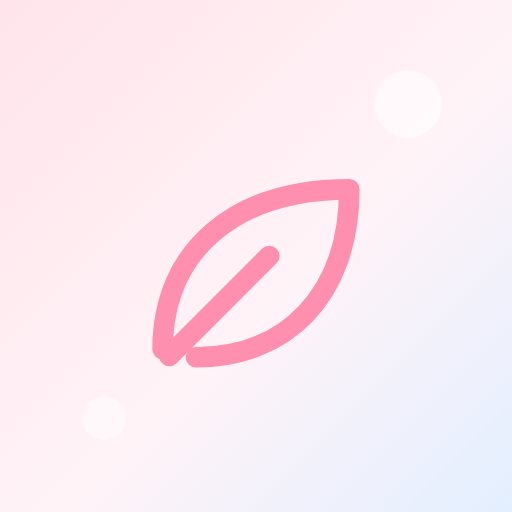
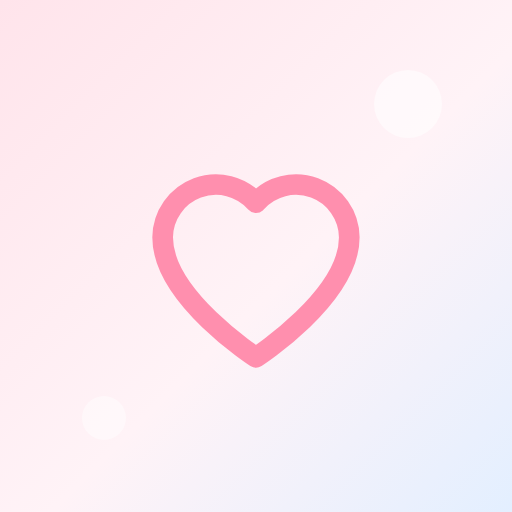
新增：菜名自动估算热量、AI 照片估算；更换图标为爱心

Changed region(s): [[0.2812, 0.3125, 0.7188, 0.7188], [0.5938, 0.625, 0.625, 0.6562], [0.5625, 0.5938, 0.5938, 0.625]]

diff --git a/index.html b/index.html
@@ -508,7 +508,236 @@ function save(){
   }
 }
 
-/* ================= 业务计算 ================= */
+/* ================= 食物热量库（按常见一份估算，可手动修改） ================= */
+const FOOD_DB = [
+  ['白米饭','1 碗（约 150g）',174,['米饭','白饭','大米饭','饭']],
+  ['糙米饭','1 碗（约 150g）',165,['糙米']],
+  ['杂粮饭','1 碗（约 150g）',170,[]],
+  ['面条','1 碗（约 200g）',280,['汤面','拉面','面']],
+  ['牛肉面','1 碗',550,['牛肉拉面','红烧牛肉面']],
+  ['炒面','1 份（约 300g）',580,['干炒牛河']],
+  ['意大利面','1 份（约 250g）',400,['意面','pasta']],
+  ['米线','1 碗',350,['过桥米线']],
+  ['米粉','1 碗',330,['河粉','汤粉']],
+  ['馒头','1 个（约 100g）',223,['白馒头']],
+  ['花卷','1 个（约 80g）',190,[]],
+  ['包子','1 个（约 100g）',250,['肉包','肉包子']],
+  ['素包子','1 个',180,['菜包','素包']],
+  ['小笼包','6 个',400,['一笼小笼包']],
+  ['生煎','4 个',450,['生煎包']],
+  ['饺子','10 个',400,['水饺','猪肉饺子','蒸饺']],
+  ['馄饨','10 个',300,['云吞','抄手']],
+  ['白粥','1 碗（约 250g）',90,['大米粥','稀饭']],
+  ['小米粥','1 碗（约 250g）',110,[]],
+  ['燕麦粥','1 碗（约 250g）',150,['燕麦']],
+  ['皮蛋瘦肉粥','1 碗',180,['瘦肉粥']],
+  ['炒饭','1 份（约 300g）',550,['蛋炒饭','扬州炒饭']],
+  ['手抓饼','1 个',350,[]],
+  ['煎饼果子','1 个',450,['煎饼']],
+  ['全麦面包','1 片（约 35g）',90,['全麦吐司']],
+  ['吐司','1 片（约 35g）',95,['白吐司','切片面包']],
+  ['面包','1 个（约 80g）',200,['小面包','牛角包']],
+  ['油条','1 根（约 60g）',230,[]],
+  ['红薯','1 个（约 150g）',130,['地瓜','烤红薯']],
+  ['紫薯','1 个（约 150g）',125,[]],
+  ['玉米','1 根（约 200g）',170,['玉米棒','甜玉米']],
+  ['土豆','1 个（约 150g）',115,['马铃薯']],
+  ['山药','1 份（约 150g）',90,[]],
+
+  ['鸡蛋','1 个（约 50g）',78,['水煮蛋','白煮蛋','煮鸡蛋','炒鸡蛋','煎鸡蛋']],
+  ['煎蛋','1 个',120,['荷包蛋','太阳蛋']],
+  ['茶叶蛋','1 个',85,[]],
+  ['蒸蛋','1 碗',90,['鸡蛋羹','水蒸蛋']],
+  ['卤蛋','1 个',90,[]],
+  ['鸡胸肉','1 份（约 100g）',133,['鸡胸','水煮鸡胸']],
+  ['鸡腿','1 个（约 100g）',181,['鸡腿肉','烤鸡腿']],
+  ['鸡翅','1 个（约 40g）',90,['烤鸡翅']],
+  ['炸鸡','1 块',250,['炸鸡块','鸡米花']],
+  ['牛肉','1 份（约 100g）',190,['牛腱','瘦牛肉']],
+  ['牛排','1 份（约 150g）',300,['西冷','眼肉']],
+  ['猪肉','1 份（约 100g）',155,['猪里脊','里脊']],
+  ['五花肉','1 份（约 100g）',395,[]],
+  ['排骨','1 份（约 100g）',320,['猪排骨']],
+  ['三文鱼','1 份（约 100g）',208,['鲑鱼']],
+  ['鱼','1 份（约 100g）',120,['鱼肉','清蒸鱼','鲈鱼','烤鱼']],
+  ['虾','1 份（约 100g）',101,['白灼虾','基围虾','虾仁','大虾']],
+  ['蟹','1 只',95,['螃蟹']],
+  ['豆腐','1 块（约 100g）',82,['嫩豆腐','北豆腐']],
+  ['豆干','1 份（约 100g）',140,['香干']],
+  ['豆浆','1 杯（250ml）',60,['无糖豆浆']],
+  ['火腿肠','1 根',130,[]],
+  ['培根','1 片',90,[]],
+  ['午餐肉','1 份（约 50g）',280,[]],
+  ['鸡胸沙拉','1 份',250,['鸡肉沙拉','健身餐']],
+  ['沙拉','1 份',80,['蔬菜沙拉','轻食','沙拉碗']],
+  ['蛋白粉','1 勺',120,[]],
+
+  ['西兰花','1 份（约 150g）',50,['西蓝花']],
+  ['青菜','1 份（约 150g）',30,['小白菜','上海青']],
+  ['生菜','1 份（约 100g）',15,[]],
+  ['菠菜','1 份（约 150g）',35,[]],
+  ['白菜','1 份（约 150g）',25,['大白菜']],
+  ['番茄','1 个（约 150g）',25,['西红柿']],
+  ['黄瓜','1 根（约 200g）',30,[]],
+  ['胡萝卜','1 根（约 100g）',40,[]],
+  ['蘑菇','1 份（约 100g）',25,['香菇','菌菇']],
+  ['茄子','1 份（约 150g）',40,[]],
+  ['豆角','1 份（约 150g）',45,['四季豆']],
+  ['莲藕','1 份（约 100g）',70,['藕']],
+  ['海带','1 份（约 100g）',20,[]],
+  ['炒青菜','1 份',90,['清炒时蔬','炒时蔬']],
+  ['蒜蓉西兰花','1 份',90,[]],
+  ['土豆丝','1 份',160,['炒土豆丝']],
+  ['凉拌黄瓜','1 份',60,['拍黄瓜']],
+  ['蔬菜汤','1 碗',60,['蛋花汤','紫菜蛋花汤']],
+  ['番茄蛋汤','1 碗',80,['西红柿蛋汤']],
+
+  ['番茄炒蛋','1 份',180,['西红柿炒蛋','番茄炒鸡蛋']],
+  ['宫保鸡丁','1 份',320,[]],
+  ['鱼香肉丝','1 份',300,[]],
+  ['麻婆豆腐','1 份',260,[]],
+  ['青椒肉丝','1 份',250,[]],
+  ['糖醋排骨','1 份',420,[]],
+  ['红烧肉','1 份',480,[]],
+  ['回锅肉','1 份',400,[]],
+  ['红烧茄子','1 份',280,[]],
+  ['地三鲜','1 份',320,[]],
+  ['可乐鸡翅','1 份',300,[]],
+  ['酸菜鱼','1 份',350,[]],
+  ['水煮鱼','1 份',420,[]],
+  ['辣子鸡','1 份',380,[]],
+  ['小炒肉','1 份',350,['农家小炒肉']],
+  ['蒜苔炒肉','1 份',280,[]],
+  ['干锅花菜','1 份',240,[]],
+  ['卤肉饭','1 份',600,[]],
+  ['盖浇饭','1 份',620,['盖饭']],
+  ['咖喱饭','1 份',600,['咖喱鸡饭']],
+  ['鸡排饭','1 份',700,['炸鸡排饭']],
+  ['麻辣烫','1 份',600,[]],
+  ['火锅','1 人份',900,[]],
+  ['烧烤','1 人份',500,['烤串']],
+  ['寿司','6 个',300,[]],
+  ['饭团','1 个',200,[]],
+  ['三明治','1 个',300,[]],
+  ['汉堡','1 个',500,['汉堡包']],
+  ['薯条','1 份（中）',340,[]],
+  ['披萨','1 块',280,['比萨']],
+
+  ['苹果','1 个（约 200g）',105,['红苹果']],
+  ['香蕉','1 根（约 120g）',105,[]],
+  ['橙子','1 个',62,['橙']],
+  ['橘子','1 个',45,['桔子','砂糖橘']],
+  ['草莓','1 盒（约 150g）',48,[]],
+  ['蓝莓','1 盒（约 100g）',57,[]],
+  ['西瓜','1 块（约 300g）',90,[]],
+  ['葡萄','1 串（约 150g）',65,['提子']],
+  ['猕猴桃','1 个',45,['奇异果']],
+  ['梨','1 个',90,['雪梨']],
+  ['芒果','1 个',100,[]],
+  ['桃子','1 个',60,['桃']],
+  ['火龙果','1 个',60,[]],
+  ['圣女果','10 颗',30,['小番茄','千禧果']],
+  ['牛油果','1 个',160,['鳄梨']],
+
+  ['美式咖啡','1 杯',5,['黑咖啡','美式']],
+  ['拿铁','1 杯',150,['拿铁咖啡']],
+  ['奶茶','1 杯（500ml）',350,['珍珠奶茶','波霸奶茶']],
+  ['可乐','1 罐（330ml）',140,['可口可乐','百事可乐']],
+  ['无糖可乐','1 罐（330ml）',0,['零度可乐']],
+  ['雪碧','1 罐（330ml）',130,[]],
+  ['果汁','1 杯',120,['橙汁','苹果汁']],
+  ['牛奶','1 杯（250ml）',160,['纯牛奶']],
+  ['酸奶','1 杯（约 150g）',100,[]],
+  ['无糖酸奶','1 杯（约 150g）',70,[]],
+  ['豆奶','1 杯（250ml）',90,[]],
+  ['啤酒','1 罐（330ml）',150,[]],
+  ['气泡水','1 瓶',0,[]],
+  ['水','1 杯',0,['矿泉水','白开水']],
+
+  ['薯片','1 包（约 50g）',270,[]],
+  ['巧克力','1 块（约 20g）',110,[]],
+  ['坚果','1 小把（约 25g）',150,['混合坚果','每日坚果']],
+  ['饼干','3 块',130,[]],
+  ['蛋糕','1 块',300,['奶油蛋糕']],
+  ['冰淇淋','1 个',200,['雪糕','冰激凌']],
+  ['蛋挞','1 个',200,[]],
+  ['泡面','1 桶',450,['方便面','速食面']],
+  ['辣条','1 包',150,[]],
+  ['果冻','1 个',60,[]],
+  ['爆米花','1 份',150,[]]
+];
+
+function normFood(s){
+  return String(s == null ? '' : s).toLowerCase()
+    .replace(/[\s,，。、;；:：!！?？()（）\[\]【】\-_/\\·"'”“]/g, '');
+}
+
+/* 按菜名找最匹配的一条；返回 { name, portion, kcal, hit } */
+function lookupFood(text){
+  const q = normFood(text);
+  if(!q || q.length < 2) return null;
+  let best = null, bestLen = 0;
+  for(let i = 0; i < FOOD_DB.length; i++){
+    const it = FOOD_DB[i];
+    const names = [it[0]].concat(it[3] || []);
+    for(let j = 0; j < names.length; j++){
+      const nn = normFood(names[j]);
+      if(!nn) continue;
+      if(q === nn){
+        if(nn.length > bestLen || !best){
+          best = { name: it[0], portion: it[1], kcal: it[2], hit: names[j], exact: true };
+          bestLen = nn.length;
+        }
+      }else if(nn.length >= 2 && q.indexOf(nn) > -1 && nn.length > bestLen && !(best && best.exact)){
+        best = { name: it[0], portion: it[1], kcal: it[2], hit: names[j], exact: false };
+        bestLen = nn.length;
+      }
+    }
+  }
+  return best;
+}
+
+/* 在整段描述里找出所有食物，按长匹配优先去重叠，累加热量 */
+function estimateFoods(text){
+  const q = normFood(text);
+  if(!q || q.length < 2) return [];
+  const cands = [];
+  for(let i = 0; i < FOOD_DB.length; i++){
+    const it = FOOD_DB[i];
+    const names = [it[0]].concat(it[3] || []);
+    for(let j = 0; j < names.length; j++){
+      const nn = normFood(names[j]);
+      if(nn.length < 2) continue;
+      let idx = q.indexOf(nn);
+      while(idx > -1){
+        cands.push({ start: idx, end: idx + nn.length, len: nn.length, name: it[0], portion: it[1], kcal: it[2] });
+        idx = q.indexOf(nn, idx + 1);
+      }
+    }
+  }
+  if(!cands.length) return [];
+  cands.sort((a, b) => (b.len - a.len) || (a.start - b.start));
+  const used = [];
+  const picked = [];
+  for(let i = 0; i < cands.length; i++){
+    const c = cands[i];
+    let overlap = false;
+    for(let j = 0; j < used.length; j++){
+      if(c.start < used[j].end && c.end > used[j].start){ overlap = true; break; }
+    }
+    if(!overlap){ used.push(c); picked.push(c); }
+  }
+  picked.sort((a, b) => a.start - b.start);
+  const seen = {}, out = [];
+  for(let i = 0; i < picked.length; i++){
+    const p = picked[i];
+    if(seen[p.name]) continue;
+    seen[p.name] = 1;
+    out.push({ name: p.name, portion: p.portion, kcal: p.kcal });
+  }
+  return out;
+}
+
 const MEALS = [
   { key: 'breakfast', name: '早餐', icon: 'sun' },
   { key: 'lunch', name: '午餐', icon: 'bowl' },
@@ -1416,6 +1645,55 @@ async function callAI(offset){
     btn.innerHTML = old;
   }
 }
+/* 根据照片 + 菜名，用视觉模型估算热量 */
+async function aiEstimatePhoto(){
+  const cfg = S.ai || {};
+  if(!cfg.base || !cfg.key || !cfg.model){ toast('先在设置里配置 AI 接口'); return; }
+  if(!tmp.photo){ toast('先选一张照片'); return; }
+  const btn = document.querySelector('[data-act="ai-vision"]');
+  const old = btn ? btn.innerHTML : '';
+  if(btn){ btn.disabled = true; btn.innerHTML = '<span class="spinner"></span> 识别中…'; }
+  const note = $('#mNote') ? $('#mNote').value.trim() : '';
+  const prompt = '这是一张饮食照片。请识别图中的食物与大致分量，估算总热量。只输出 JSON，不要任何其他文字，格式：{"items":[{"name":"食物名","kcal":数字}],"total":数字}。' + (note ? '用户补充说明：' + note + '。' : '');
+  try{
+    const res = await fetch(cfg.base.replace(/\/+$/, '') + '/chat/completions', {
+      method: 'POST',
+      headers: { 'Content-Type': 'application/json', 'Authorization': 'Bearer ' + cfg.key },
+      body: JSON.stringify({
+        model: cfg.model,
+        temperature: 0.2,
+        messages: [{
+          role: 'user',
+          content: [
+            { type: 'text', text: prompt },
+            { type: 'image_url', image_url: { url: tmp.photo } }
+          ]
+        }]
+      })
+    });
+    if(!res.ok) throw new Error('HTTP ' + res.status);
+    const data = await res.json();
+    const txt = (data.choices && data.choices[0] && data.choices[0].message && data.choices[0].message.content) || '';
+    const m = txt.match(/\{[\s\S]*\}/);
+    if(!m) throw new Error('返回内容无法解析');
+    const obj = JSON.parse(m[0]);
+    const total = Math.round(num(obj.total) || (obj.items || []).reduce((a, x) => a + num(x.kcal), 0));
+    if(!total) throw new Error('没识别出热量');
+    const names = (obj.items || []).map(x => x.name).filter(Boolean).join(' + ');
+    const kEl = $('#mKcal');
+    if(kEl){ kEl.value = total; kEl.dataset.auto = '0'; }
+    const nEl = $('#mNote');
+    if(nEl && names && !nEl.value.trim()) nEl.value = names;
+    const tip = $('#foodTip');
+    if(tip){ tip.style.display = 'block'; tip.innerHTML = 'AI 估算 ≈ <b>' + total + ' kcal</b>，请按实际分量修改'; }
+    toast('AI 估算完成，记得核对');
+  }catch(err){
+    toast('识别失败：' + (err.message || '当前模型可能不支持图片输入'));
+  }finally{
+    if(btn){ btn.disabled = false; btn.innerHTML = old; }
+  }
+}
+
 /* 渲染周报时恢复上次 AI 结果 */
 const __renderReport = renderReport;
 renderReport = function(){
@@ -1428,8 +1706,10 @@ renderReport = function(){
 
 /* ================= 弹层 ================= */
 let tmp = { photo: null, habitIcon: 'check', mealKey: '', mealDate: '', snackIdx: -1 };
+let __closeTimer = null;
 
 function openSheet(html){
+  clearTimeout(__closeTimer);
   const sh = $('#sheet');
   sh.innerHTML = '<div class="sheet-handle"></div>' + html;
   $('#sheetMask').classList.add('on');
@@ -1438,7 +1718,8 @@ function openSheet(html){
 function closeSheet(){
   $('#sheet').classList.remove('on');
   $('#sheetMask').classList.remove('on');
-  setTimeout(() => { if(!$('#sheet').classList.contains('on')) $('#sheet').innerHTML = ''; }, 320);
+  clearTimeout(__closeTimer);
+  __closeTimer = setTimeout(() => { if(!$('#sheet').classList.contains('on')) $('#sheet').innerHTML = ''; }, 320);
 }
 
 function openWeightSheet(){
@@ -1487,12 +1768,14 @@ function openMealSheet(date, key, idx){
       '</div>' +
       '<div class="hint">照片会自动压缩，不会占用太多空间。</div>' +
     '</div>' +
-    '<div class="field"><label>热量（kcal，可自行填写）</label>' +
-      '<input class="input" id="mKcal" type="number" min="0" max="5000" inputmode="numeric" placeholder="大概多少卡？" value="' + (item && num(item.kcal) ? num(item.kcal) : '') + '">' +
-      '<div class="chips" style="margin-top:9px">' + quick.map(k => '<button class="chip" data-act="quick-kcal" data-k="' + k + '">' + k + '</button>').join('') + '</div>' +
+    '<div class="field"><label>吃了什么（填菜名会自动估算热量）</label>' +
+      '<textarea class="input" id="mNote" placeholder="例如：番茄炒蛋 + 半碗米饭">' + esc(item && item.note ? item.note : '') + '</textarea>' +
+      '<div class="hint" id="foodTip" style="display:none;color:#3C8A6A"></div>' +
     '</div>' +
-    '<div class="field"><label>吃了什么（可选）</label>' +
-      '<textarea class="input" id="mNote" placeholder="例如：鸡胸肉沙拉 + 半个玉米 + 无糖豆浆">' + esc(item && item.note ? item.note : '') + '</textarea>' +
+    '<div class="field"><label>热量（kcal，可自行修改）</label>' +
+      '<input class="input" id="mKcal" type="number" min="0" max="5000" inputmode="numeric" placeholder="填菜名后自动估算，也可自己写" value="' + (item && num(item.kcal) ? num(item.kcal) : '') + '">' +
+      '<div class="chips" style="margin-top:9px">' + quick.map(k => '<button class="chip" data-act="quick-kcal" data-k="' + k + '">' + k + '</button>').join('') + '</div>' +
+      (S.ai && S.ai.base && S.ai.key && S.ai.model ? '<button class="btn btn-ghost-b btn-sm btn-full" style="margin-top:9px" data-act="ai-vision">' + icon('sparkle') + '根据照片 AI 估算</button>' : '') +
     '</div>' +
     '<div class="sheet-actions">' +
       (tmp.photo ? '<button class="btn btn-line" data-act="clear-photo" style="flex:0 0 auto;padding:0 16px">清除照片</button>' : '') +
@@ -1813,6 +2096,7 @@ document.addEventListener('click', async (e) => {
   }
 
   if(act === 'ai-analyze'){ await callAI(reportWeekOffset); return; }
+  if(act === 'ai-vision'){ await aiEstimatePhoto(); return; }
   if(act === 'copy-prompt'){
     const text = buildPrompt(reportWeekOffset);
     try{
@@ -1894,6 +2178,32 @@ document.addEventListener('click', async (e) => {
     toast('已清空');
     return;
   }
+});
+
+document.addEventListener('input', e => {
+  const t = e.target;
+  if(!t || !t.id) return;
+  if(t.id === 'mKcal'){ t.dataset.auto = '0'; return; }
+  if(t.id !== 'mNote') return;
+  clearTimeout(window.__foodTimer);
+  window.__foodTimer = setTimeout(() => {
+    const tip = $('#foodTip'), kEl = $('#mKcal');
+    if(!tip || !kEl) return;
+    const hits = estimateFoods(t.value);
+    if(hits.length){
+      const sum = hits.reduce((a, h) => a + h.kcal, 0);
+      tip.style.display = 'block';
+      tip.innerHTML = '按 ' + hits.map(h => '「' + esc(h.name) + '」' + (hits.length > 1 ? ' ' + h.kcal : '')).join(' + ') +
+        ' 估算 ≈ <b>' + sum + ' kcal</b>，可手动修改';
+      if(!kEl.value || kEl.dataset.auto === '1'){
+        kEl.value = sum;
+        kEl.dataset.auto = '1';
+      }
+    }else{
+      tip.style.display = 'none';
+      if(kEl.dataset.auto === '1'){ kEl.value = ''; kEl.dataset.auto = '0'; }
+    }
+  }, 320);
 });
 
 $('#sheetMask').addEventListener('click', closeSheet);

diff --git a/sw.js b/sw.js
@@ -1,5 +1,5 @@
 /* 轻盈日记 · 离线缓存 */
-const CACHE = 'qingying-v2';
+const CACHE = 'qingying-v3';
 const ASSETS = [
   './',
   './index.html',
